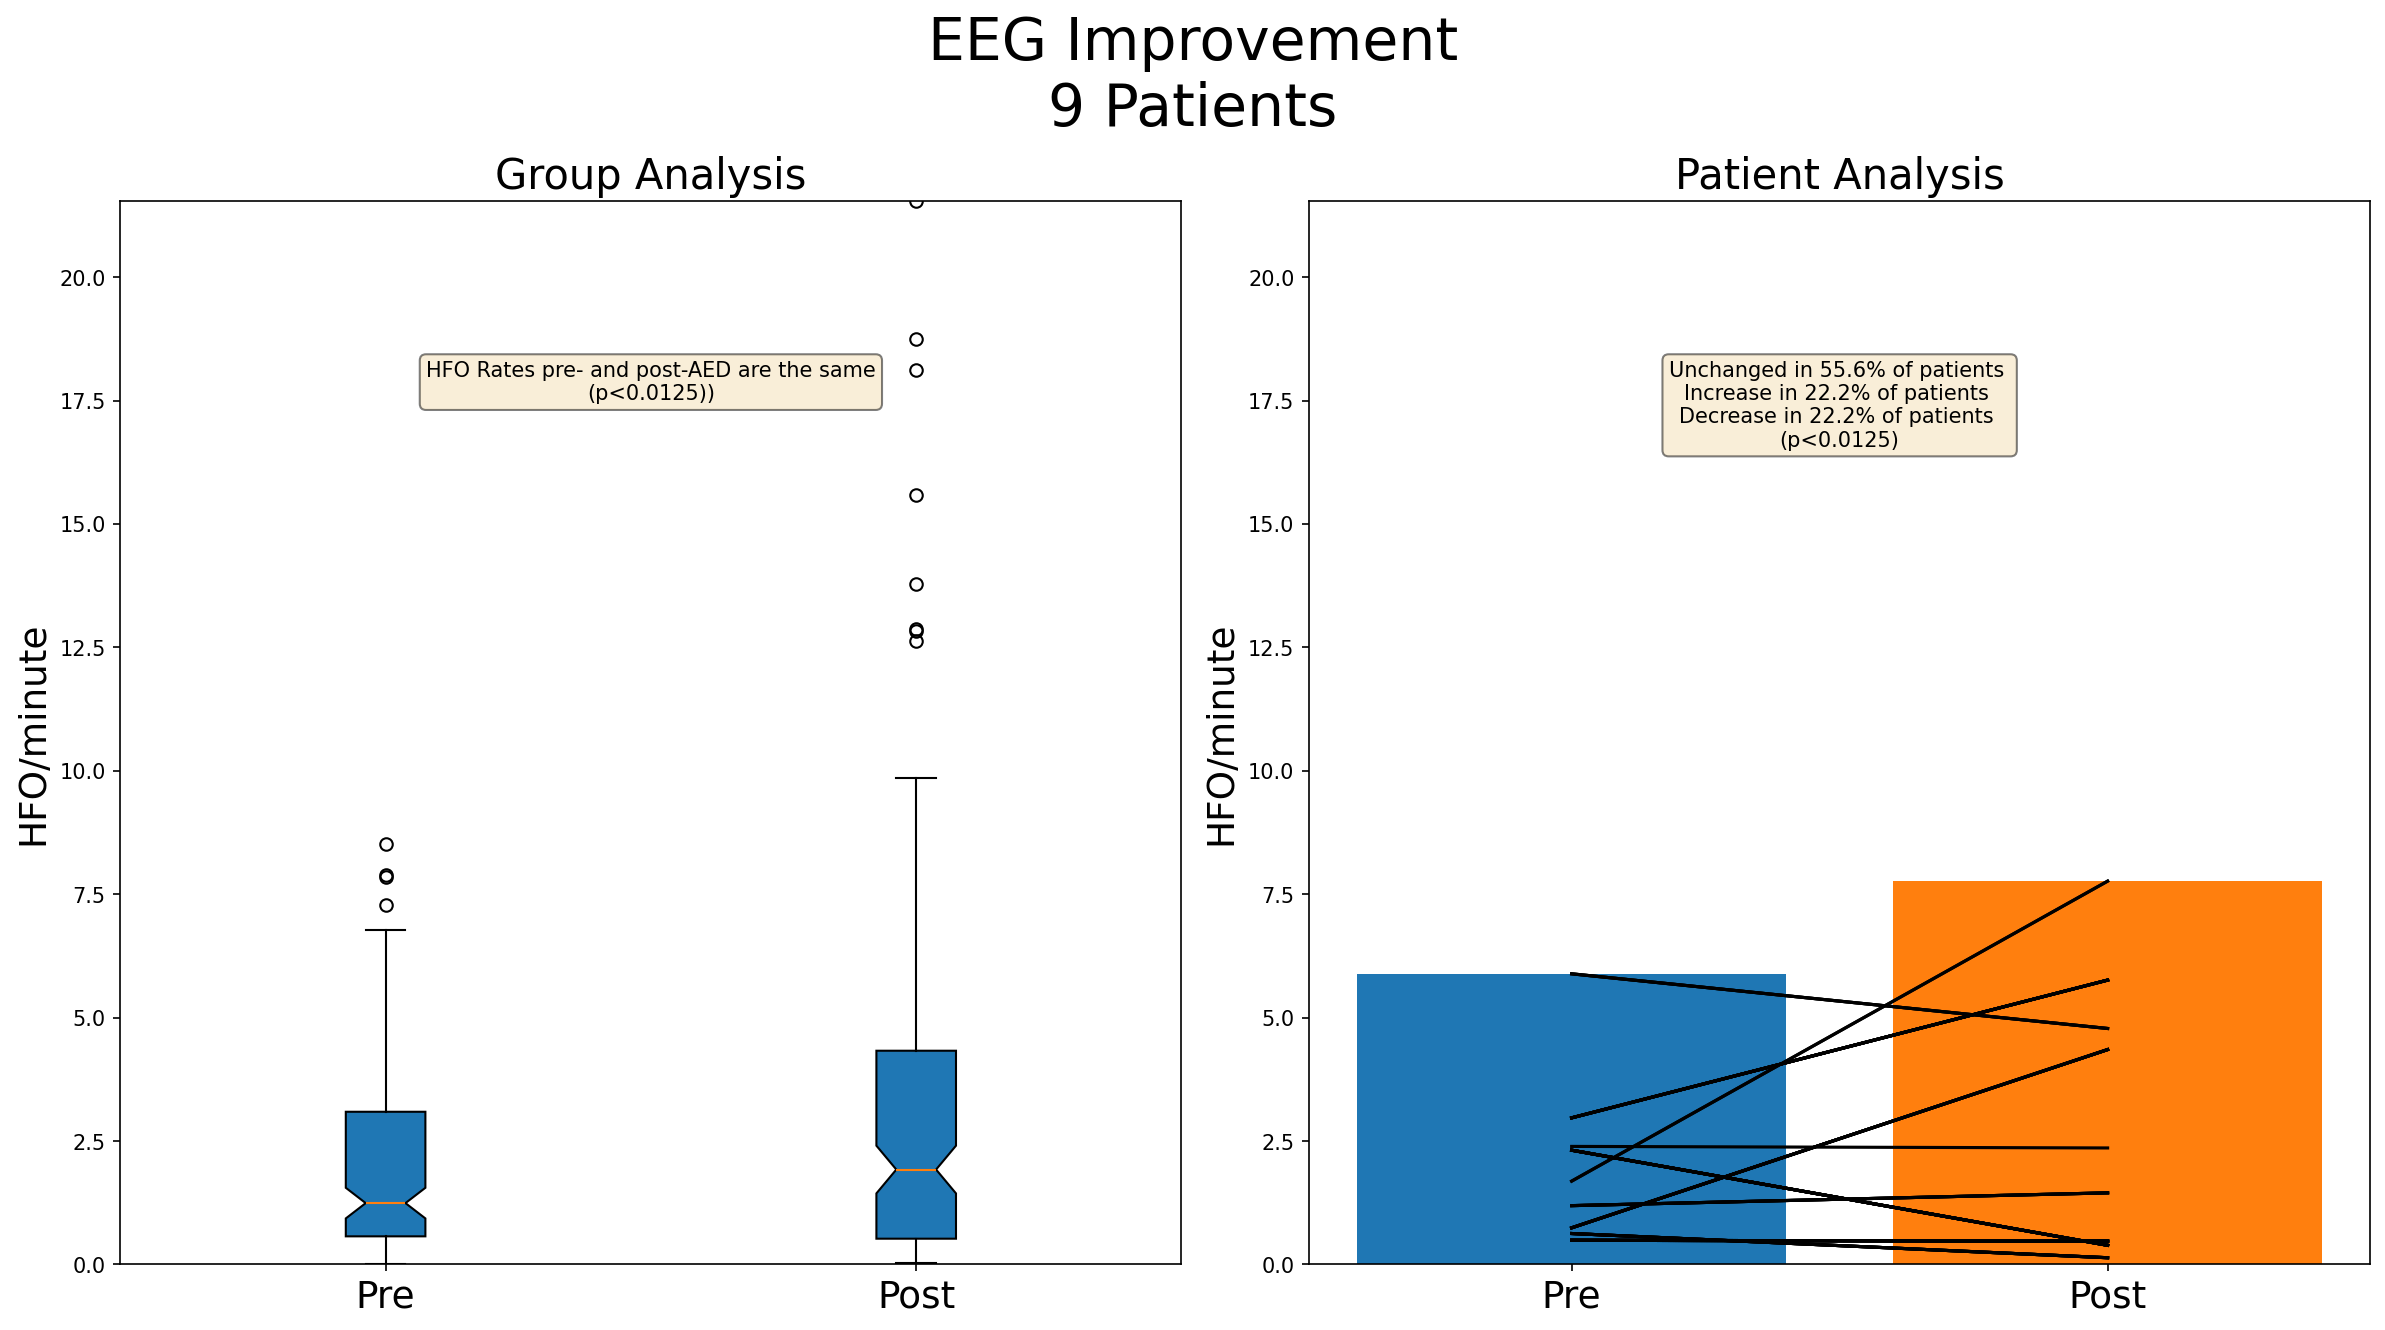
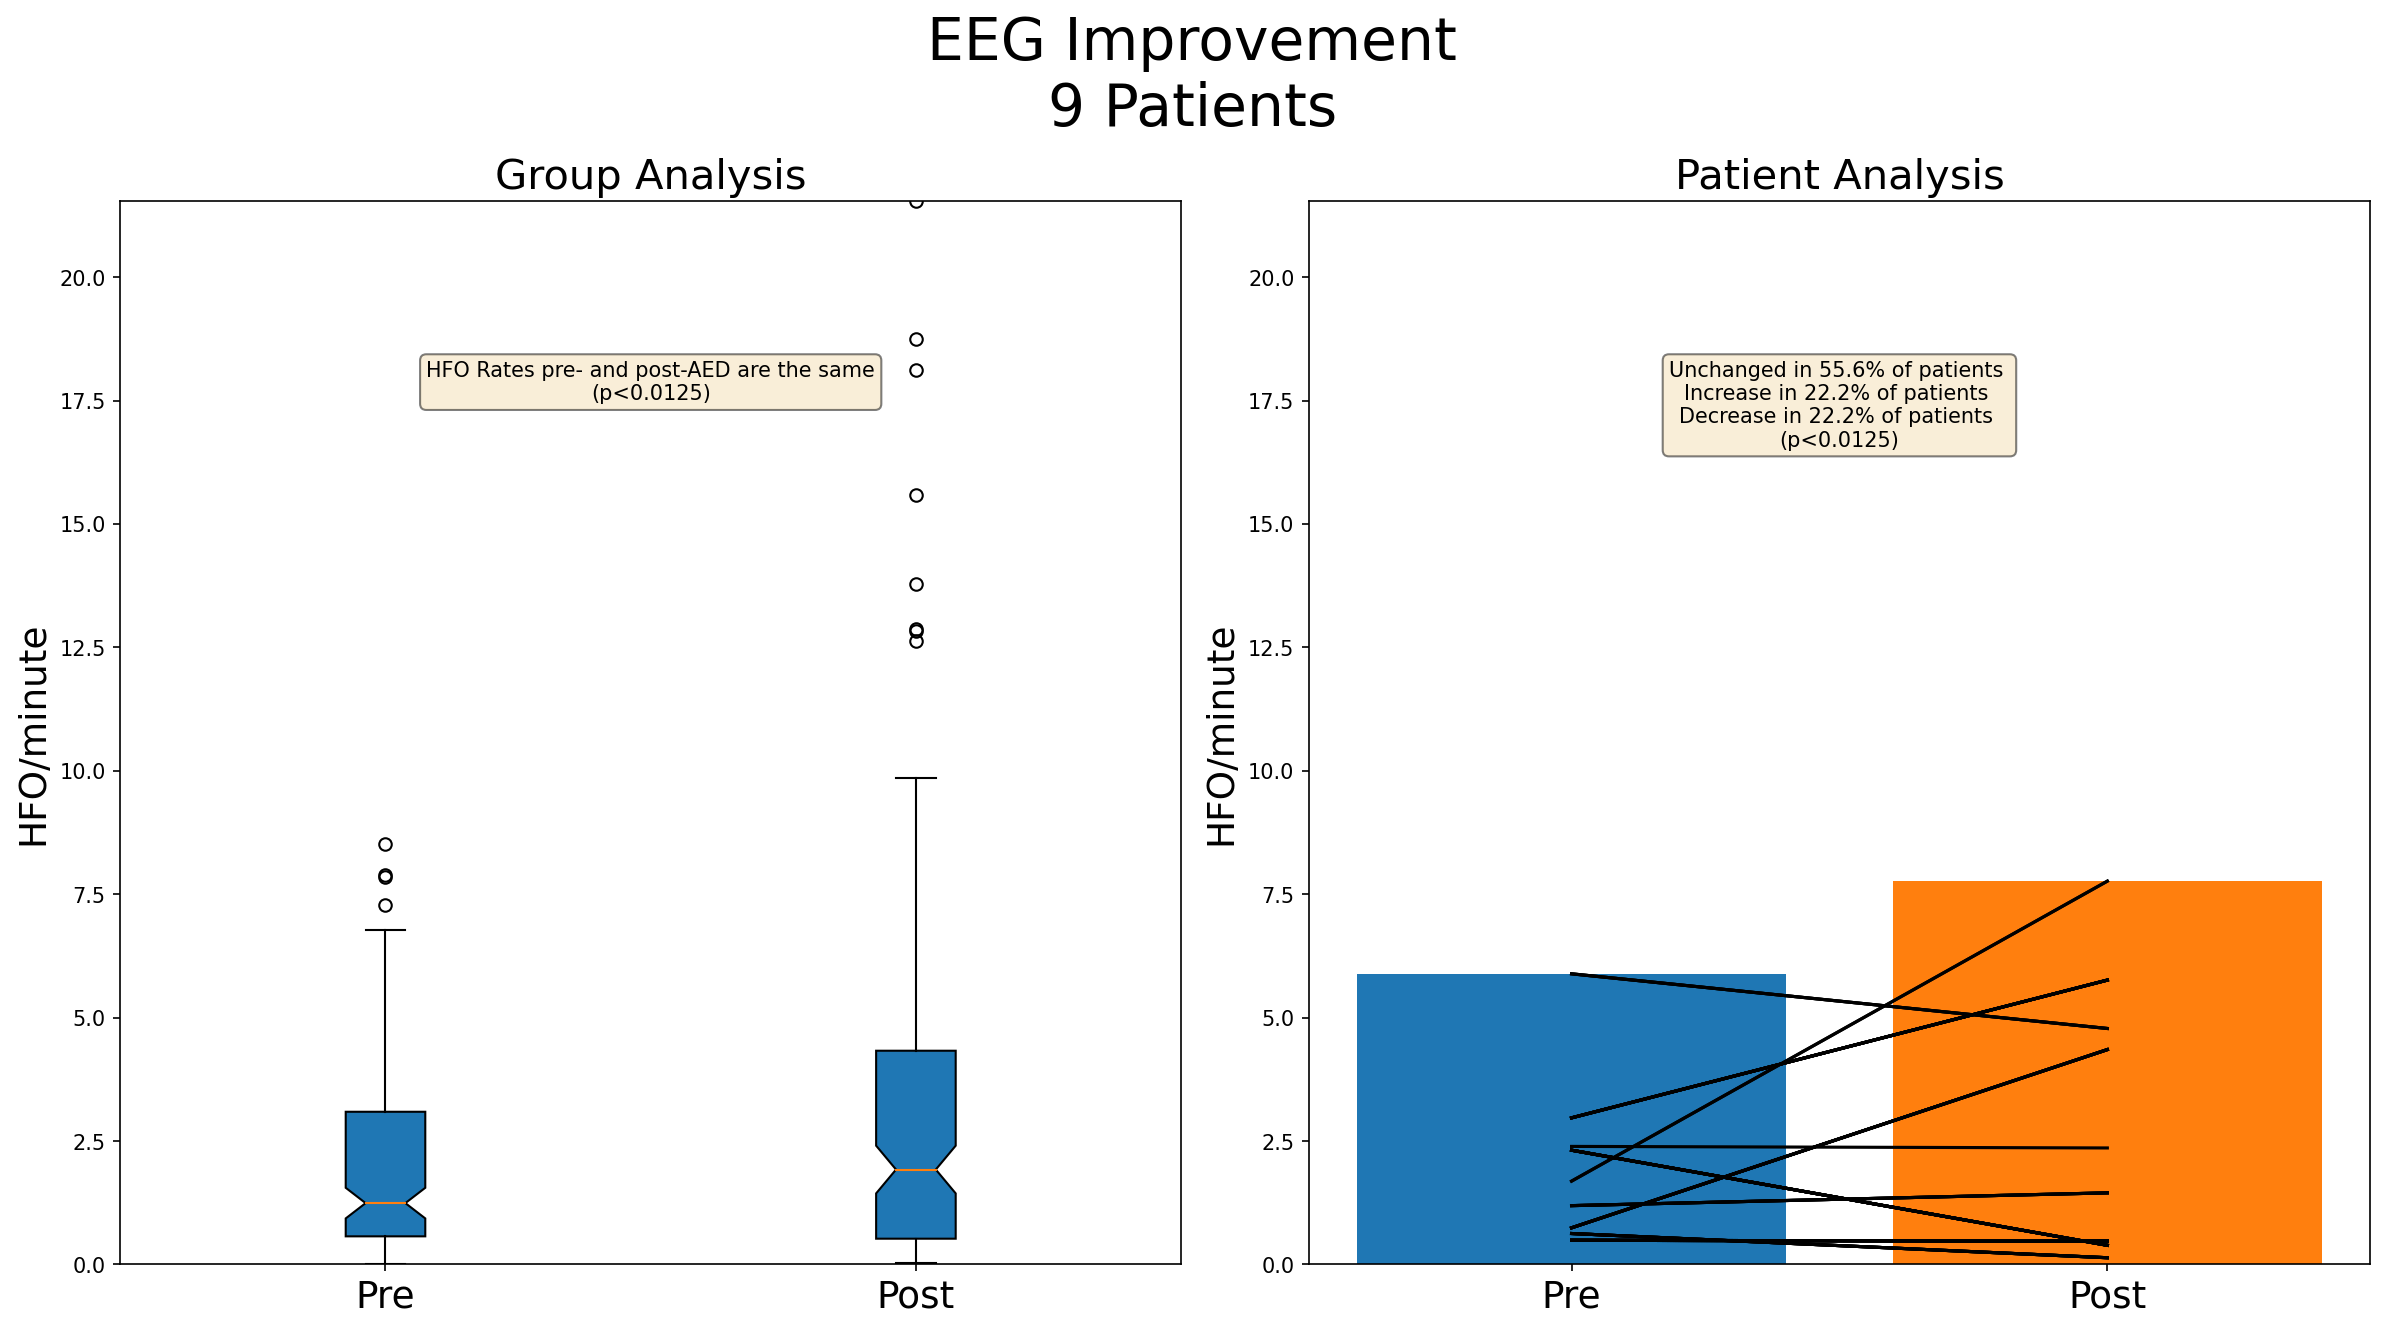
Enable the option to trim the outlier channels

diff --git a/src/aed_hfo_main.py b/src/aed_hfo_main.py
@@ -8,8 +8,6 @@ from file_groups import *
 from plotters import *
 
 
-trim_ok = False
-
 groups = ["All_Patients", "EEG_Improvement",
           "Clinical_Improvement", "Seizure_Free"]
 
@@ -78,6 +76,22 @@ for group_label in groups:
         eeg_duration_s = eeg_data_post.times[-1]/60
         hfo_rates_post = get_hfo_rates(annots_post, eeg_duration_s)
 
+        # Trim outlier channels
+        trim_ok = False
+        if trim_ok:
+            lp = 10
+            hp = 90
+            # Trim out outliers
+            hfo_rates_pre = np.array(hfo_rates_pre)
+            trim_sel = np.logical_and(hfo_rates_pre > np.percentile(
+                hfo_rates_pre, lp), hfo_rates_pre < np.percentile(hfo_rates_pre, hp))
+            hfo_rates_pre = hfo_rates_pre[trim_sel].tolist()
+
+            hfo_rates_post = np.array(hfo_rates_post)
+            trim_sel = np.logical_and(hfo_rates_post > np.percentile(
+                hfo_rates_post, lp), hfo_rates_post < np.percentile(hfo_rates_post, hp))
+            hfo_rates_post = hfo_rates_post[trim_sel].tolist()
+
         if len(all_rates_pre) == 0:
             pre_patid = np.full(len(hfo_rates_pre), idx1)
             post_patid = np.full(len(hfo_rates_post), idx1)
@@ -94,4 +108,5 @@ for group_label in groups:
     print([np.median(all_rates_pre[1, :]), np.median(all_rates_post[1, :])])
 
     # Plot Results
-    plot_analysis_results(group_label, all_rates_pre, all_rates_post, trim_ok)
+    plot_analysis_results(group_label, all_rates_pre,
+                          all_rates_post, trim_ok=False)

diff --git a/src/plotters.py b/src/plotters.py
@@ -21,8 +21,8 @@ def plot_analysis_results(group_label, all_rates_pre, all_rates_post, trim_ok):
     plot_analysis_barchart(axs[1], all_rates_pre, all_rates_post, trim_ok)
 
     plt.tight_layout()
-    wm = plt.get_current_fig_manager()
-    wm.window.state('zoomed')
+    # wm = plt.get_current_fig_manager()
+    # wm.window.state('zoomed')
     plt.show(block=False)
 
     figFilename = images_path+group_label+'.png'
@@ -150,7 +150,7 @@ def plot_analysis_boxplot(ax, all_rates_pre, all_rates_post, trim_ok):
             textstr += "HFO Rates decreased after AED\n"
         elif p_increase < 0.0125:
             textstr += "HFO Rates increased after AED\n"
-    textstr += "(p<0.0125))"
+    textstr += "(p<0.0125)"
 
     # place a text box in upper left in axes coords
     # these are matplotlib.patch.Patch properties
